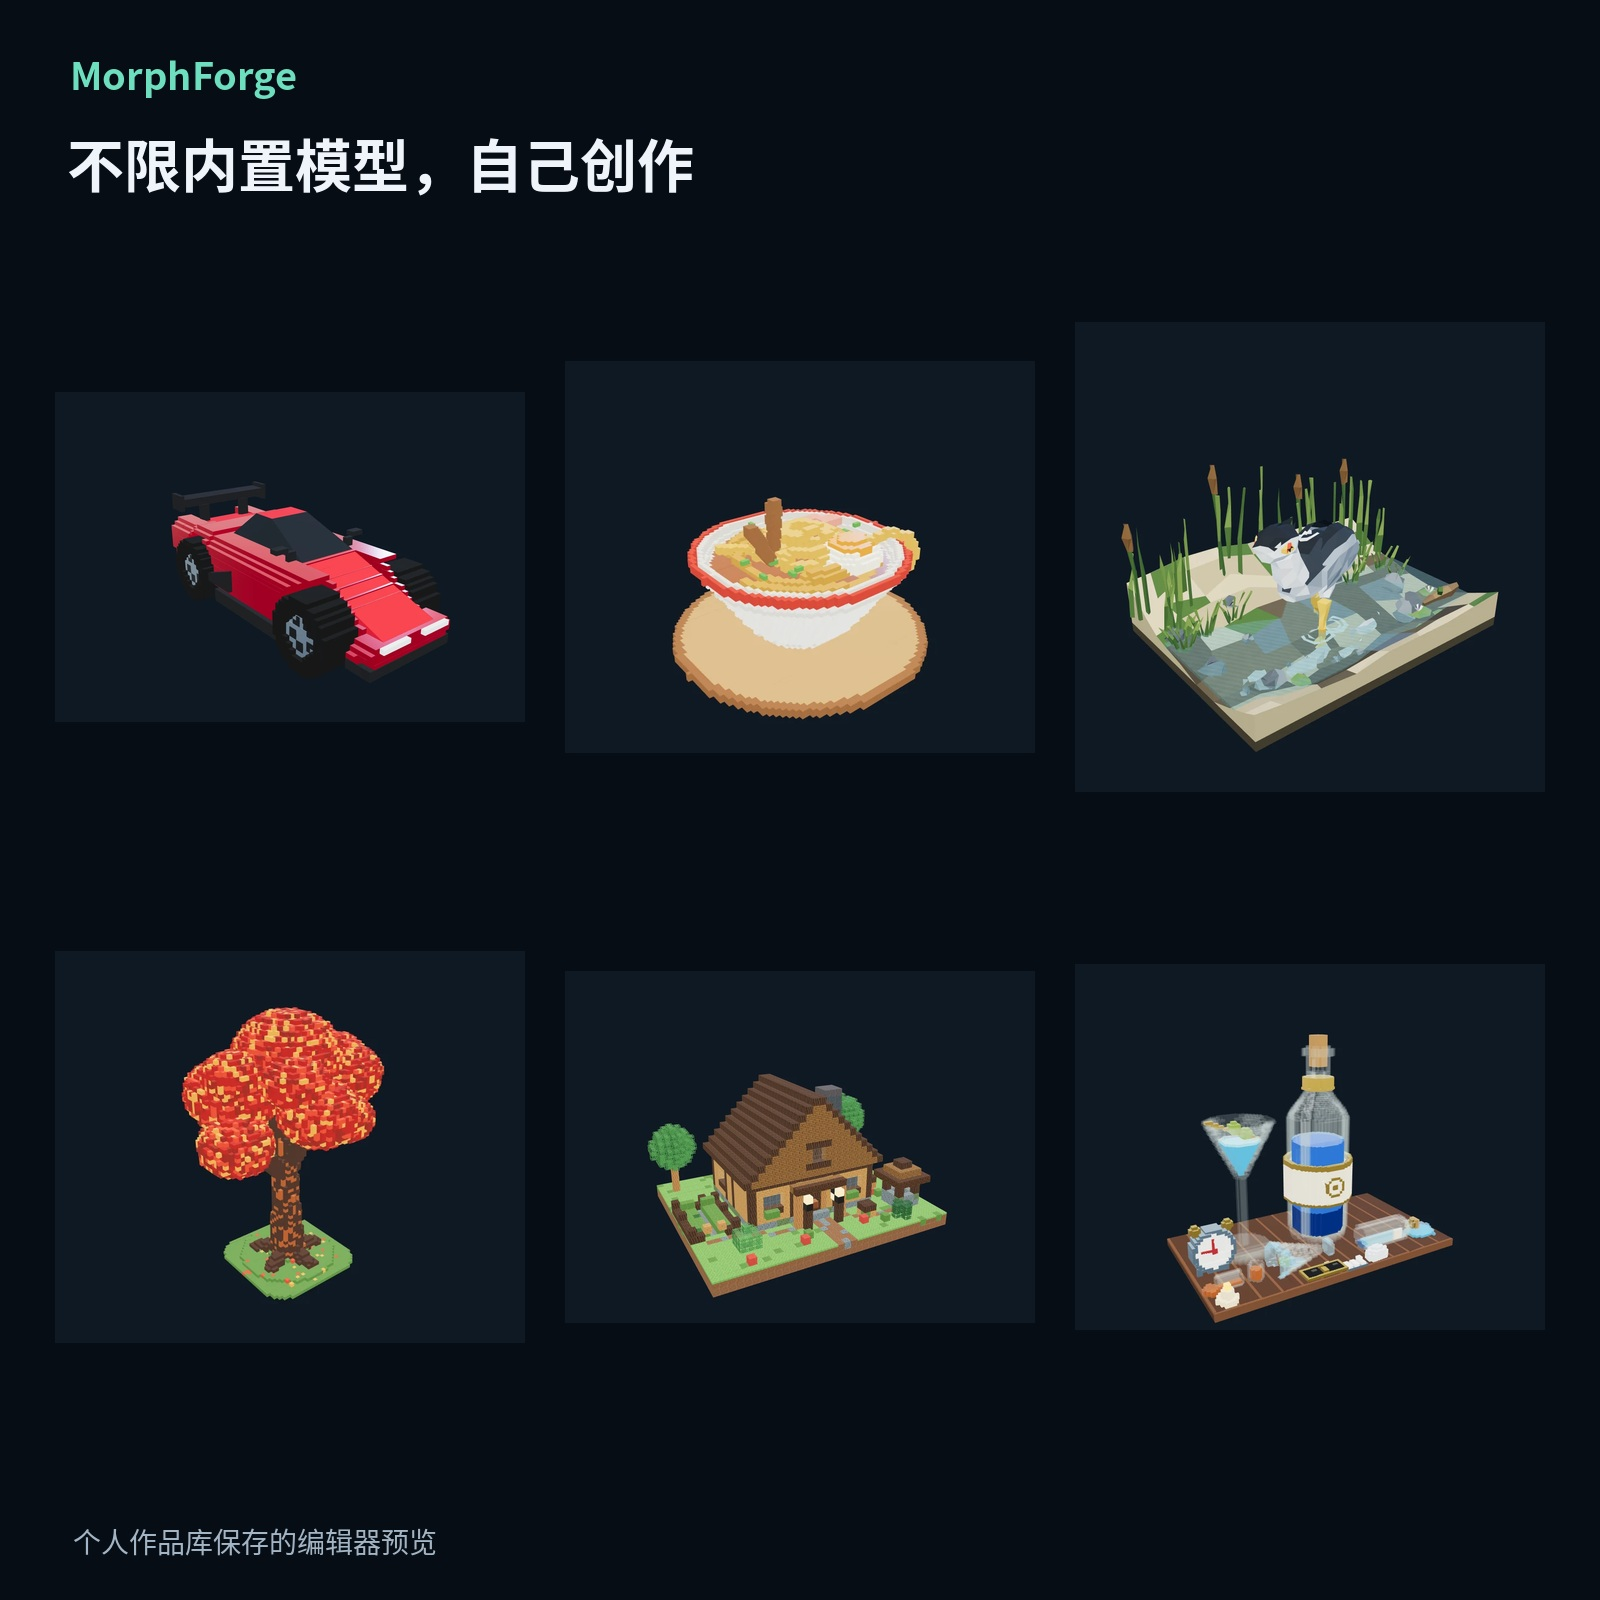
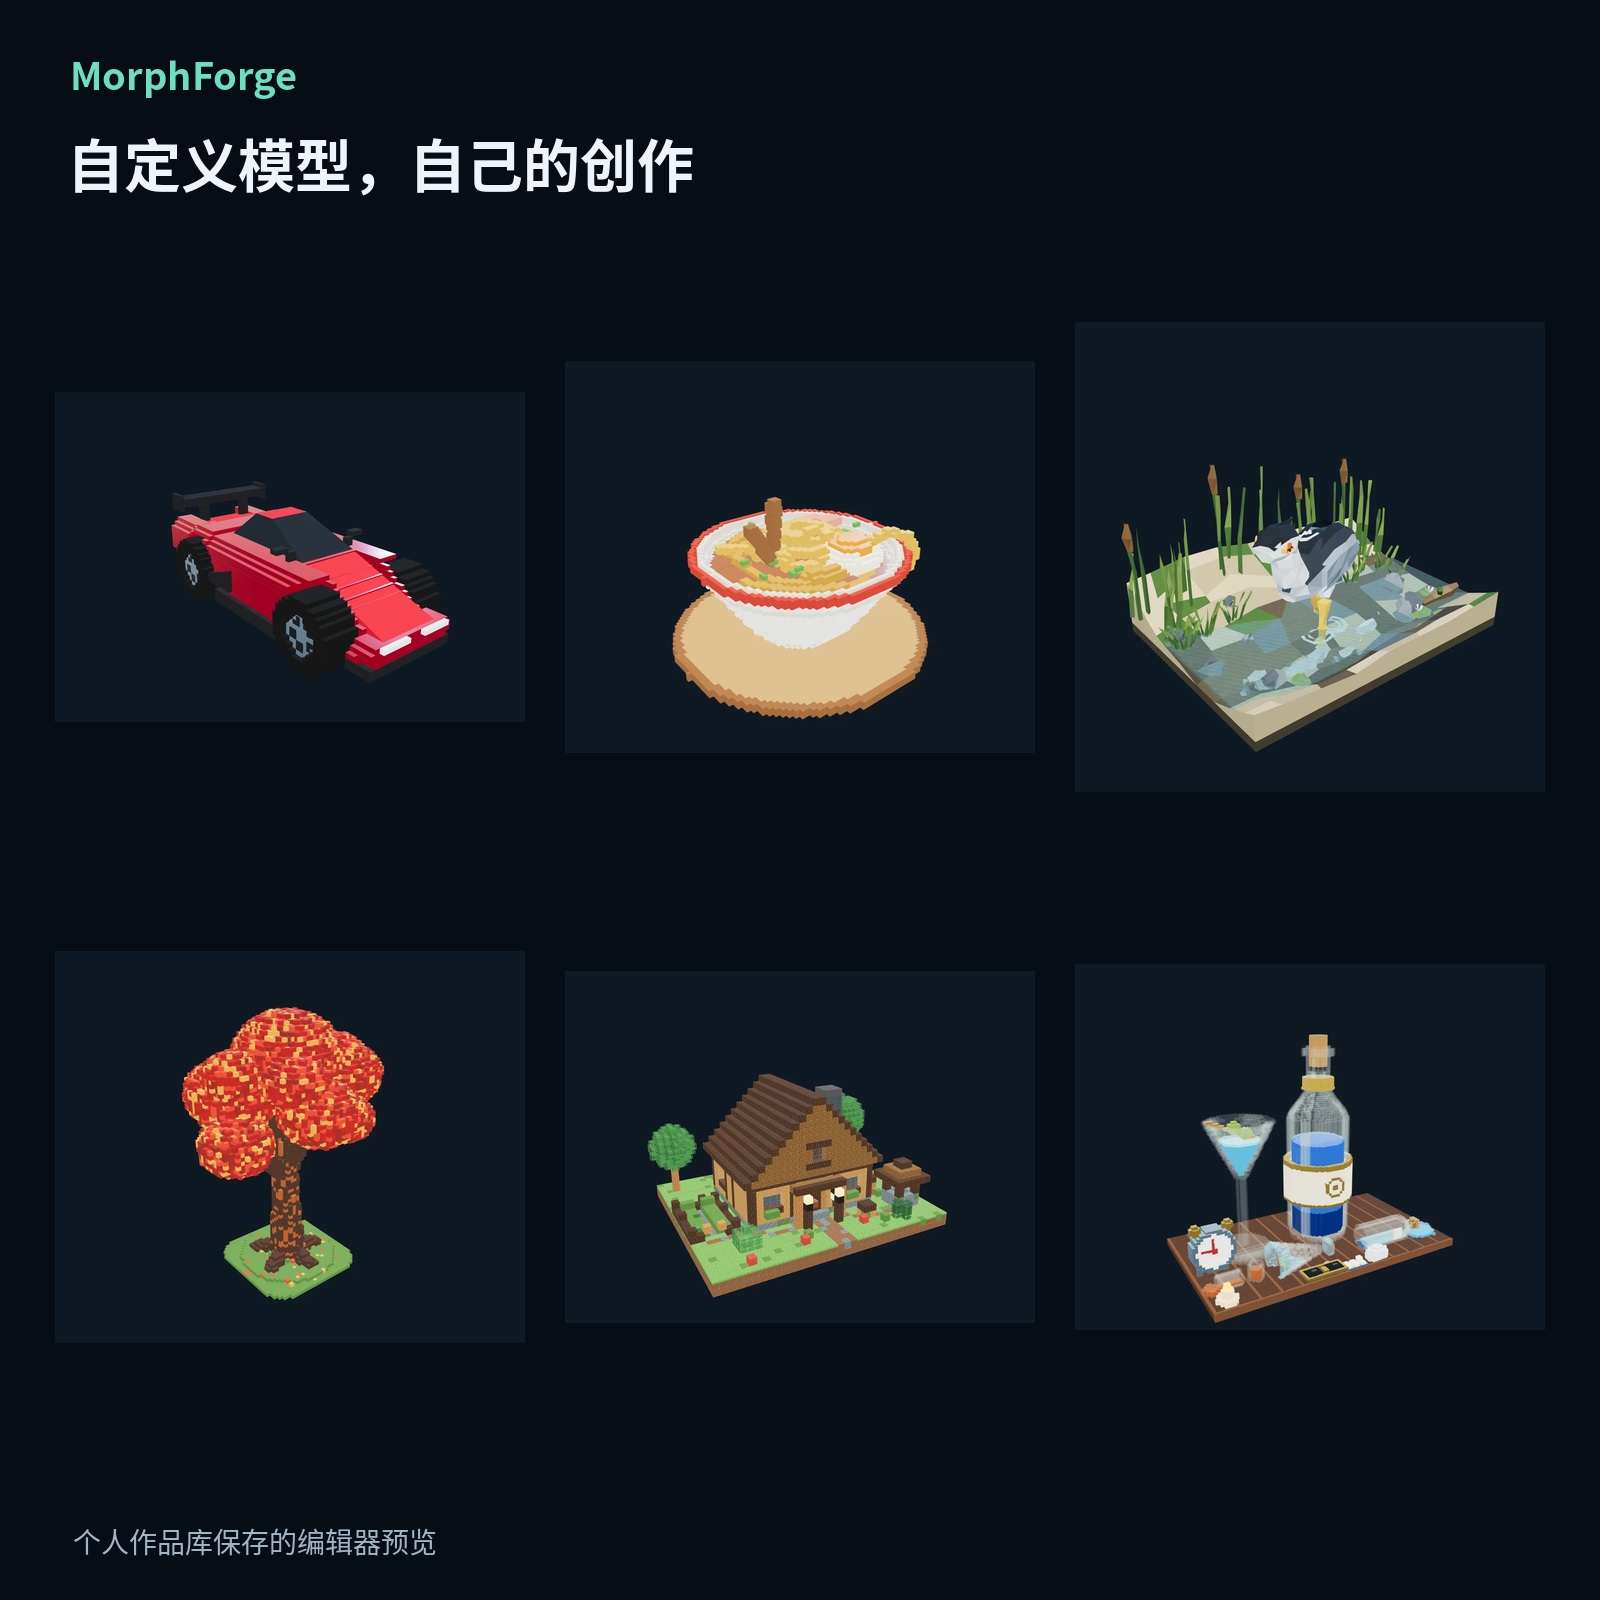
Lead marketplace copy with creative capabilities and VRChat activities

Changed region(s): [[0.0312, 0.0625, 0.375, 0.125]]

diff --git a/tools/build_marketplace_media.py b/tools/build_marketplace_media.py
@@ -26,7 +26,7 @@ def main():
   for y,t,label in [(240,23,'制作画面' if ja else '在工作台创作'),(1110,49,'VRChatで構築' if ja else '在VRChat中搭建')]:
    r.text(d,(74,y-55),label,34,r.MINT,language=lang);fit(im,capture(lang,t),(80,y,1440,810))
   r.text(d,(74,1940),'実録の抜粋。待ち時間の省略・倍速あり。' if ja else '真实录制节选，包含倍速与等待删减。',27,r.MUTED,language=lang);save(im,f'02-workflow-{lang}.jpg',lang,[f'promo-{lang}@23s',f'promo-{lang}@49s'])
-  im,d=base('自分の作品をつくる' if ja else '不限内置模型，自己创作',lang)
+  im,d=base('自分の作品をつくる' if ja else '自定义模型，自己的创作',lang)
   names=['sports-car.webp','ramen.webp','night-heron.webp','maple.webp','village-house.webp','hangover.webp']
   for i,name in enumerate(names):fit(im,ROOT/'docs/media/showcase'/name,(55+i%3*510,285+i//3*590,470,545))
   r.text(d,(73,1520),'保存済み作品のエディタープレビュー' if ja else '个人作品库保存的编辑器预览',28,r.MUTED,language=lang);save(im,f'03-works-{lang}.jpg',lang,['docs/media/showcase/'+n for n in names])
@@ -35,11 +35,11 @@ def main():
   for i,(t,label) in enumerate(features):
    x=65+i%2*770;y=280+i//2*610;r.text(d,(x,y-25),label,34,r.MINT,language=lang);fit(im,capture(lang,t),(x,y+50,705,485))
   r.text(d,(72,1530),'VRChat実機映像からの抜粋' if ja else '截取自VRChat实机录制',27,r.MUTED,language=lang);save(im,f'04-features-{lang}.jpg',lang,[f'promo-{lang}@{t}s' for t,_ in features])
-  im,d=base('導入前に確認' if ja else '使用前，先确认这些',lang)
-  cards=[('PC / PCVR','Windows x64','Quest単体は未検証' if ja else 'Quest独立运行未验证'),('253 bit','Avatar同期パラメーター' if ja else 'Avatar同步参数','衣装・面捕と容量を共有' if ja else '与衣服、面捕等共享预算'),('Very Poor','性能ランクの想定' if ja else '预期性能等级','FPSの保証はありません' if ja else '不承诺具体帧率'),('AI API','AI制作・翻訳は別途設定' if ja else 'AI建模与翻译另行配置','手動編集はAPI不要' if ja else '手动编辑无需API')]
+  im,d=base('作品をVRChatで楽しむ' if ja else '连接你的创作与VRChat',lang)
+  cards=[('PC / PCVR','Windows x64','制作アプリ＋Avatar表示' if ja else '桌面创作＋Avatar展示'),('OSC','作品をAvatarの周囲に表示' if ja else '让作品出现在Avatar周围','つかむ・拡大縮小・空間配置' if ja else '抓握、缩放与空间摆放'),('アニメーション' if ja else '模型动画','移動・回転・一様拡縮' if ja else '平移、旋转与等比缩放','モデルと動きを一緒に送信' if ja else '模型和动作一起发布'),('AI API','AIモデリング・翻訳に対応' if ja else '接入AI建模与字幕翻译','好みのモデルAPIを接続' if ja else '连接你选择的模型服务')]
   for i,(big,one,two) in enumerate(cards):
    x=70+i%2*760;y=310+i//2*475;d.rounded_rectangle((x,y,x+700,y+405),radius=18,fill=(17,31,43));r.text(d,(x+26,y+35),big,58,r.MINT,True,language=lang);r.text(d,(x+26,y+175),one,31,r.WHITE,True,650,language=lang);r.text(d,(x+26,y+270),two,29,r.MUTED,max_width=650,language=lang)
-  r.text(d,(75,1370),'自分のAvatarへUnityで導入・アップロード' if ja else '在Unity为自己的Avatar安装模块并上传',34,r.WHITE,True,language=lang);r.text(d,(75,1480),'人物Avatar / SDK / API利用枠は別途用意' if ja else '人物Avatar、SDK及API服务额度需自备',29,r.MUTED,language=lang);save(im,f'05-requirements-{lang}.jpg',lang,['docs/releases/0.27.0/Quickstart.'+lang+'.md'])
+  r.text(d,(75,1370),'自分のAvatarへUnityで導入・アップロード' if ja else '在Unity为自己的Avatar安装模块并上传',34,r.WHITE,True,language=lang);r.text(d,(75,1480),'導入ガイド・材質カタログ / 253bit / Very Poor' if ja else '导入指南与材质目录 / 标准253bit / Very Poor',29,r.MUTED,language=lang);save(im,f'05-requirements-{lang}.jpg',lang,['docs/releases/0.27.0/Quickstart.'+lang+'.md'])
   im,d=base('表示言語を切り替え' if ja else '中日英界面，随时切换',lang);source=ROOT/'docs/releases/0.27.0/media'/f'workbench-{lang}.png';fit(im,source,(65,330,1470,1020));r.text(d,(75,1440),'Desktop 0.27.0 / Avatar 1.4.0',31,r.MINT,language=lang);r.text(d,(75,1510),'実際のDesktop表示画面' if ja else '真实Desktop界面截图',28,r.MUTED,language=lang);save(im,f'06-interface-{lang}.jpg',lang,[source.relative_to(ROOT).as_posix()])
  (a.out/'sources.json').write_text(json.dumps(dict(images=records,fonts={c:r.font_face(c)[2] for c in ['zh-CN','ja']},method='Actual captures and saved artwork; Pillow composition. No generated product image.'),ensure_ascii=False,indent=2)+'\n');print('Created',len(records),'localized product images')
 if __name__=='__main__':main()

diff --git a/AGENTS.md b/AGENTS.md
@@ -3,6 +3,7 @@
 - 使用简体中文回复用户。
 - 图片和视频排版按文本语言选择字体：中文使用简体中文SC字形，日文使用JP字形；使用TTC时必须核对实际字体族和字体面，不能直接使用默认索引。字幕需要固定字体时使用带字体样式的ASS或烧录版，不能声称SRT本身指定了字体。
 - 宣传视频以画面为主，逐项审查新增文字的必要性；优先短标题短暂出现，删除重复说明、常驻品牌／章节／状态标签和不相关界面文字。保留必要倍速提示、来源限定和授权署名；日英字幕也要同步精简。
+- 商品页正文和宣传图文优先讲具体能力、创作结果与玩法；安装规格和许可简短集中说明，详细技术边界放使用指南与内部发布记录。
 - Unity 工程位于 `192.168.101.5` 的 `D:\Projects\VRChatProjects2\MorphForge`；本目录保存访问工具、源脚本与验证记录。
 - 操作前阅读 [UNITY-GUIDE.md](UNITY-GUIDE.md)，使用 [.agents/skills/unity-pipeline/SKILL.md](.agents/skills/unity-pipeline/SKILL.md)。
 - `python3 tools/unity_remote.py <命令>` 始终显式选择 MorphForge；不要省略项目路径去操作其他 Editor。
@@ -14,6 +15,8 @@
 - 不自动上传 Avatar、启动真实 VRChat 客户端或改动其他项目场景。
 
 ## 本轮已授权范围
+
+- 2026-10-25 用户要求商品文案改为强调可做到的功能与玩法。已重写BOOTH中日正文和闲鱼正文，同步YouTube介绍、离线预览及3张商品图；突出自定义建模、OSC搭建、抓握摆放、动画、图示和双语字幕，规格与许可放末尾。26项包装／媒体和6项浏览器检查通过，Windows原发布目录更新并核验52文件，旧改动文件在E盘任务目录备份；详情docs/marketplace/20261025/copy-review.json。
 
 - 2026-10-25 用户要求按Downloads保存的BOOTH编辑页继续准备发布资料，并同步准备闲鱼视频、图片、文案；明确免费0日元（附开源链接）＋100日元自愿支持，两档同内容，闲鱼按0元准备。新资料MorphForge-Marketplace-20261025包含两平台各6张SC／JP商品图、完整中日视频及40.29MiB中文轻量版、逐栏填写表、同一买家ZIP、音乐署名及离线审阅页。26项包装／媒体和6项Chromium检查通过，Windows52文件摘要一致；安装器与Unity二进制未变，只更新买家说明文字。见docs/marketplace/20261025/RESULTS.md。没有在线发布／上传视频、推送或建Release。BOOTH视频真实嵌入地址、原包NC素材的支持档分发方式、闲鱼当前账号0元／类目／视频接受情况和公开main是否对应0.27.0仍单列待核对；不虚构试用头像链接或承诺。原始BOOTH账号HTML只留私有临时文件，不提交或打包。
 
